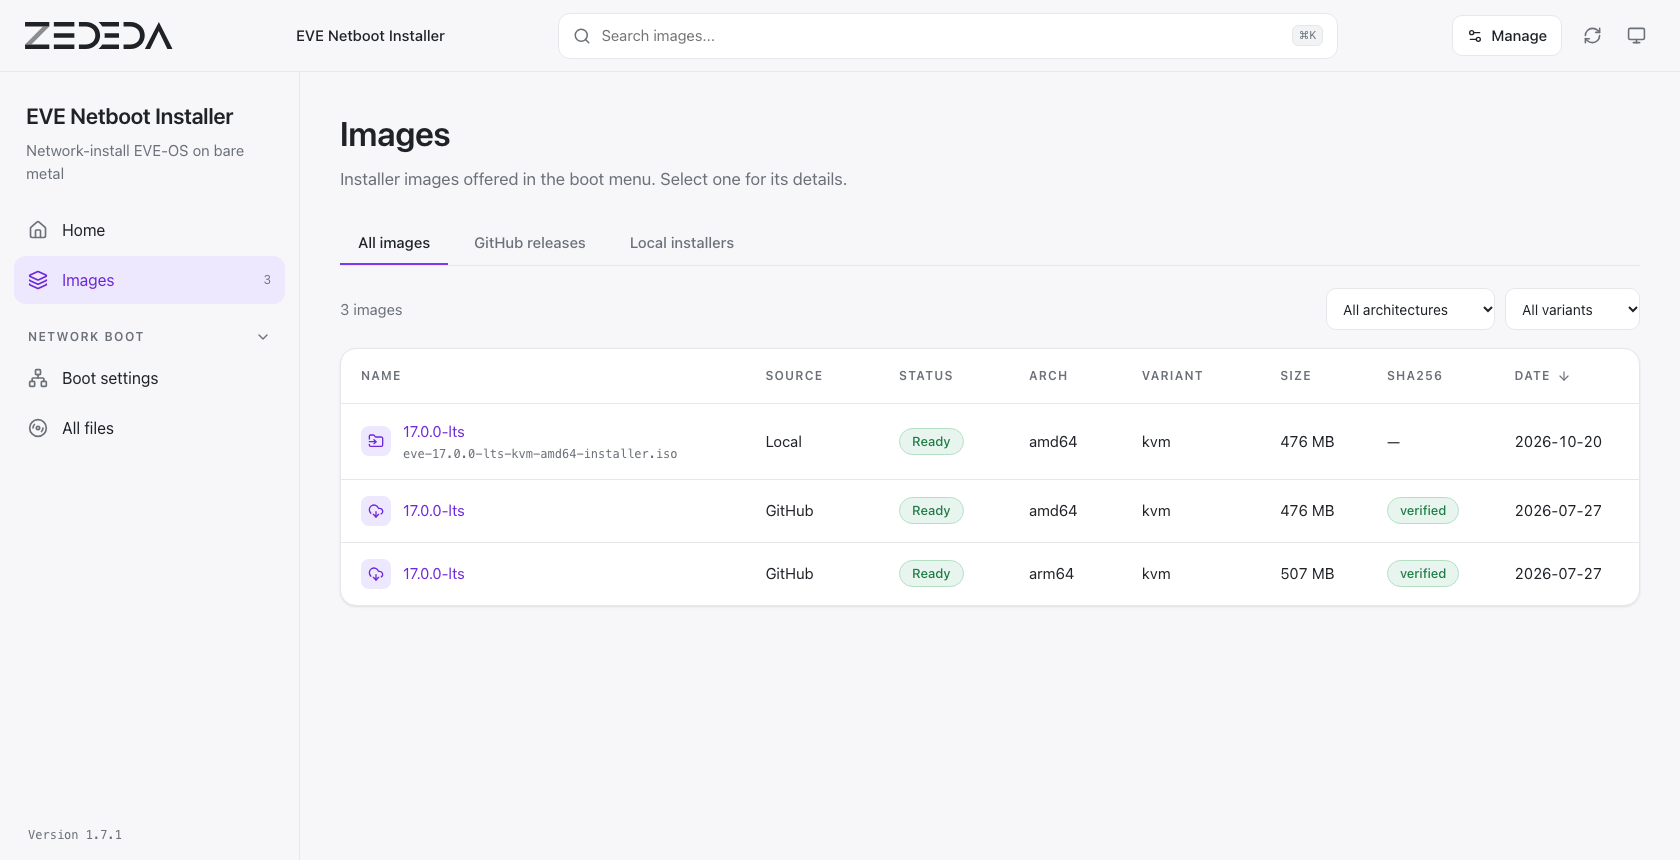
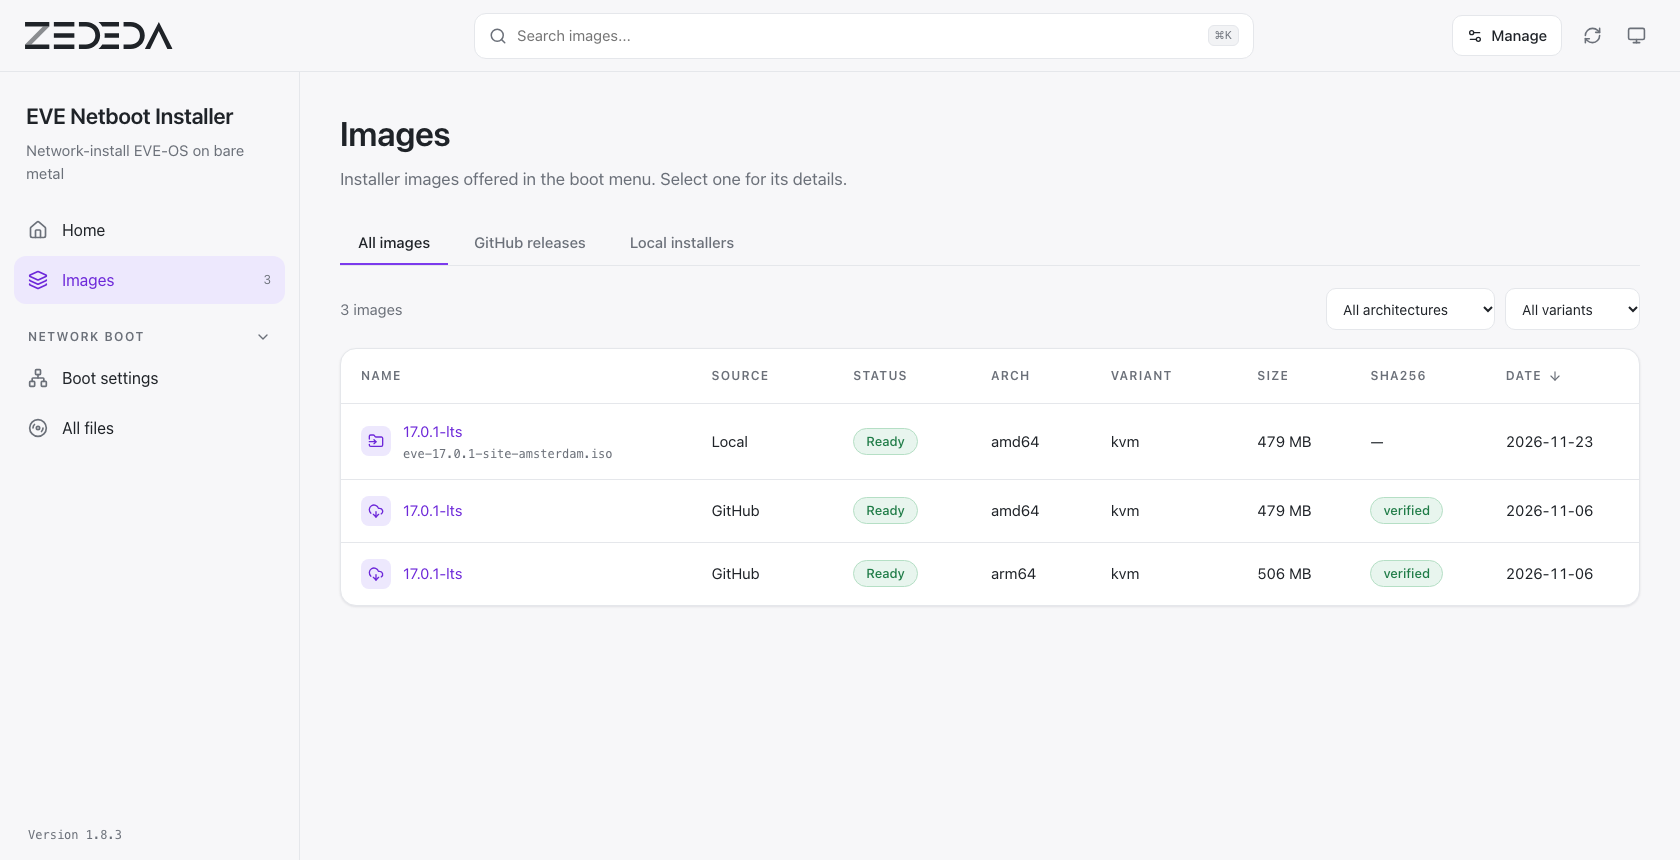
docs: web UI screenshots of 1.8.3; version examples 1.8.3

diff --git a/docs/deployment.md b/docs/deployment.md
@@ -59,7 +59,7 @@ them, and you can delete them.
 
 ```sh
 SERVER_IP=192.168.1.10                                           # <- answer 1
-ENI_IMAGE=ghcr.io/michiel-zededa/eve-netboot-installer:1.8.2
+ENI_IMAGE=ghcr.io/michiel-zededa/eve-netboot-installer:1.8.3
 ```
 
 The `env.example` of a release already has `ENI_IMAGE` set to that release's
@@ -72,7 +72,7 @@ port 8080 and shows the menu in English.
 
 ```sh
 SERVER_IP=192.168.1.10                                           # <- answer 1
-ENI_IMAGE=ghcr.io/michiel-zededa/eve-netboot-installer:1.8.2
+ENI_IMAGE=ghcr.io/michiel-zededa/eve-netboot-installer:1.8.3
 
 # where your own installer ISOs are (for example controller-specific builds)
 IMPORT_DIR=/srv/iso/eve                                          # <- your folder
@@ -128,7 +128,7 @@ Chain it from your menu with `chain http://192.168.1.10:8080/eve/eve.ipxe`.
 
 | | Prebuilt image (recommended) | Own build |
 |---|---|---|
-| Setting | `ENI_IMAGE=ghcr.io/michiel-zededa/eve-netboot-installer:1.8.2` (already set in a release's `env.example`) | leave `ENI_IMAGE` empty |
+| Setting | `ENI_IMAGE=ghcr.io/michiel-zededa/eve-netboot-installer:1.8.3` (already set in a release's `env.example`) | leave `ENI_IMAGE` empty |
 | Needs | `compose.yaml` and `.env`, both attached to every release | a clone of this repository |
 | First start | about 1 minute | about 5 minutes (iPXE is compiled) |
 | Pin a version | `ENI_IMAGE=ghcr.io/michiel-zededa/eve-netboot-installer:1.0.0` | `git checkout v1.0.0` |
@@ -159,7 +159,7 @@ curl -fsSLO https://github.com/michiel-zededa/eve-netboot-installer/releases/lat
 curl -fsSL -o .env https://github.com/michiel-zededa/eve-netboot-installer/releases/latest/download/env.example
 ```
 
-For a specific version, replace `latest/download` with `download/v1.8.2`
+For a specific version, replace `latest/download` with `download/v1.8.3`
 (or another tag).
 
 **For your own build**, clone the repository instead:
@@ -261,7 +261,7 @@ Create two folders on the NAS, for example in a shared folder:
    ```sh
    # the NAS address, as the PXE clients see it
    SERVER_IP=192.168.1.10
-   ENI_IMAGE=ghcr.io/michiel-zededa/eve-netboot-installer:1.8.2
+   ENI_IMAGE=ghcr.io/michiel-zededa/eve-netboot-installer:1.8.3
    # data folder and import folder from step 3B
    DATA_DIR=/srv/data/eve-netboot
    IMPORT_DIR=/srv/iso/eve

diff --git a/vm/README.md b/vm/README.md
@@ -775,7 +775,7 @@ cloud image, on every version tag ([image.yml](../.github/workflows/image.yml)).
 To build one locally (Linux with KVM, or macOS for the native architecture):
 
 ```bash
-vm/build/build.sh --arch amd64 --version 1.8.2
+vm/build/build.sh --arch amd64 --version 1.8.3
 ```
 
 | Path | Contents |
